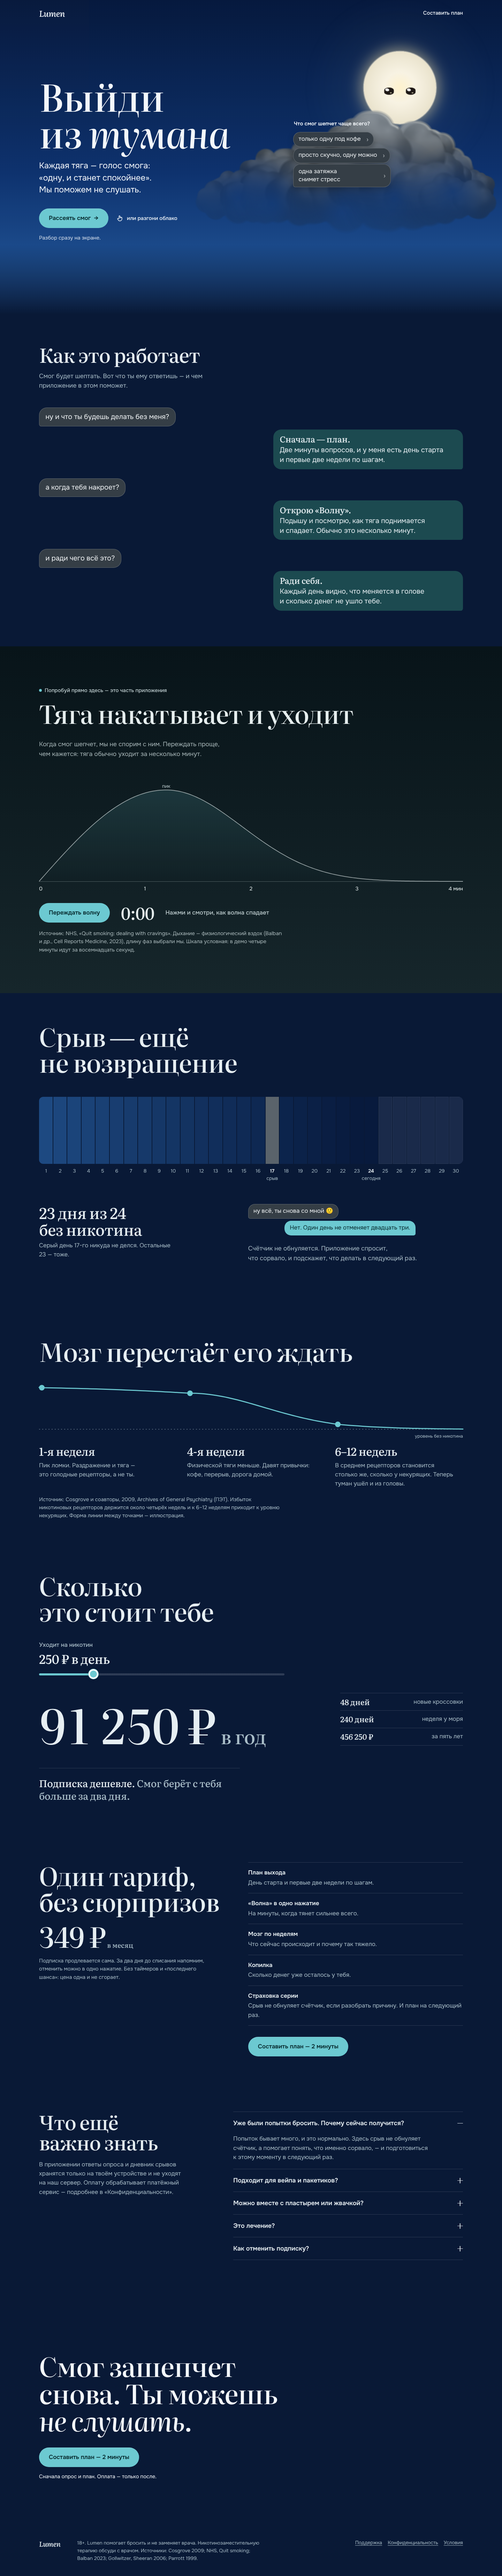
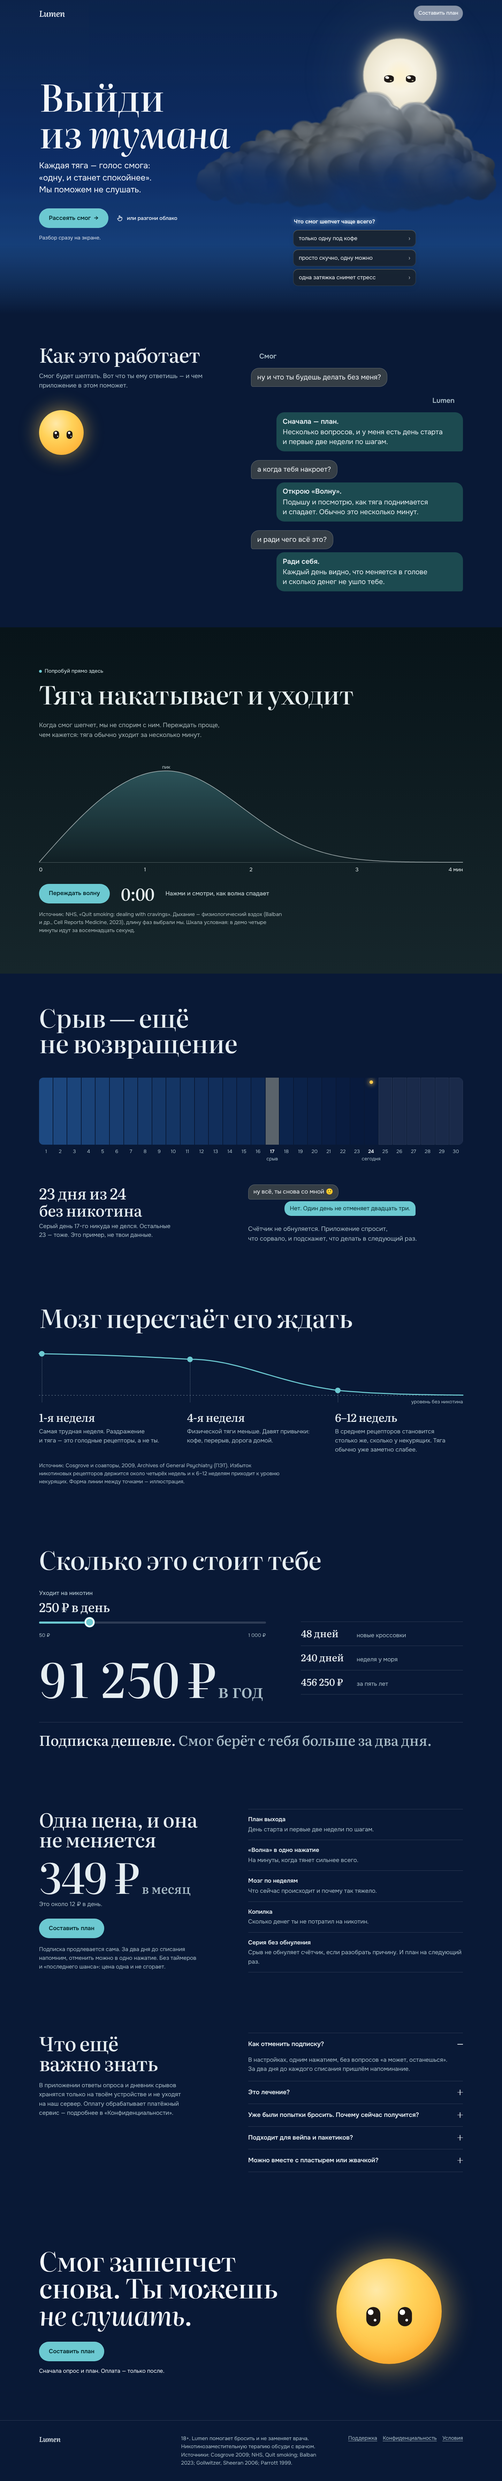
v9: desktop hero puts the trigger chips below the cloud
Fills the empty hero tail, removes chips-on-cloud contrast problems,
solid chip fill, theme-aware header pill.

Claude-Session: https://claude.ai/code/session_01CKqe4UyzFgn5AFv8yWGEaJ

diff --git a/design/directions/v9.html b/design/directions/v9.html
@@ -114,7 +114,7 @@ main,footer{position:relative;z-index:1}
 
 header.top{position:absolute;inset:0 0 auto 0;z-index:3;padding-top:env(safe-area-inset-top)}
 header.top .wrap{display:flex;justify-content:space-between;align-items:center;height:4.75rem}
-.login{background:rgba(255,255,255,.5);box-shadow:inset 0 0 0 1px rgba(6,36,63,.15);display:inline-flex;align-items:center;min-height:2.75rem;padding-inline:.85rem;margin-right:0;color:var(--ink);font-weight:500;font-size:.9375rem;text-decoration:none;border-radius:999px;transition:background-color .15s ease}
+.login{background:color-mix(in srgb,var(--ink) 12%,transparent);box-shadow:inset 0 0 0 1px color-mix(in srgb,var(--ink) 25%,transparent);display:inline-flex;align-items:center;min-height:2.75rem;padding-inline:.85rem;margin-right:0;color:var(--ink);font-weight:500;font-size:.9375rem;text-decoration:none;border-radius:999px;transition:background-color .15s ease}
 
 .hero-inner{position:relative;z-index:2;min-height:100svh;display:grid;grid-template-columns:minmax(0,7fr) minmax(0,5fr);
   column-gap:3rem;padding-block:calc(6rem + env(safe-area-inset-top)) clamp(3.5rem,9vh,6rem);align-items:center;pointer-events:none}
@@ -146,7 +146,7 @@ header.top .wrap{display:flex;justify-content:space-between;align-items:center;h
 .hint svg{width:1.4rem;height:1.4rem;flex:none}
 
 /* Переписка с Ником */
-.stage{grid-column:2;grid-row:1;margin-top:-4vh}
+.stage{grid-column:2;grid-row:1;margin-top:0;align-self:end}
 .thread{width:100%;max-width:22rem}
 .who{display:flex;align-items:center;gap:.6rem;margin:0 0 .7rem .1rem;color:var(--ink);opacity:0;transition:opacity .2s var(--ease-out)}
 .who.in{opacity:1}
@@ -437,7 +437,7 @@ dialog.plan.in::backdrop{background:rgba(6,36,63,.28)}
   .who{justify-content:center;margin:0 0 .5rem}
   .ask{font-size:.8125rem;font-weight:500;opacity:.85}
   .bubbles{align-items:stretch;gap:.5rem}
-  .b{max-width:none;width:100%;min-height:3rem;border-radius:.875rem;padding:0 1rem;font-size:1rem;background:rgba(15,23,42,.62);-webkit-backdrop-filter:blur(14px);backdrop-filter:blur(14px);box-shadow:inset 0 0 0 1px rgba(255,255,255,.14),inset 0 1px 0 rgba(255,201,77,.3)}
+  .b{max-width:none;width:100%;min-height:3rem;border-radius:.875rem;padding:0 1rem;font-size:1rem;background:rgba(24,34,46,.9);-webkit-backdrop-filter:blur(14px);backdrop-filter:blur(14px);box-shadow:0 6px 18px -8px rgba(6,36,63,.45),inset 0 0 0 1px rgba(255,255,255,.14),inset 0 1px 0 rgba(255,201,77,.3)}
   .b.last{border-bottom-left-radius:.875rem}
   .actions{grid-column:1;grid-row:4;margin-top:1rem}
   .actions > div{flex-direction:column;align-items:stretch;gap:.5rem}
@@ -492,7 +492,7 @@ dialog.plan.in::backdrop{background:rgba(6,36,63,.28)}
 @keyframes flash{0%{opacity:.25;transform:scale(.85)}35%{opacity:1;transform:scale(1.25)}100%{opacity:1;transform:none}}
 html:has(dialog.plan[open]) .hero-inner .copy,html:has(dialog.plan[open]) .hero-inner .copy > *{opacity:0}
 .hero-inner .copy,.hero-inner .copy > *{transition:opacity .2s var(--ease-out)}
-.b{border:0;font-family:inherit;text-align:left;cursor:pointer;display:flex;align-items:center;gap:.6rem;max-width:none;width:100%;min-height:3rem;border-radius:.875rem;padding:0 1rem;font-size:1rem;white-space:nowrap;background:rgba(15,23,42,.62);-webkit-backdrop-filter:blur(14px);backdrop-filter:blur(14px);box-shadow:inset 0 0 0 1px rgba(255,255,255,.14),inset 0 1px 0 rgba(255,201,77,.3)}
+.b{border:0;font-family:inherit;text-align:left;cursor:pointer;display:flex;align-items:center;gap:.6rem;max-width:none;width:100%;min-height:3rem;border-radius:.875rem;padding:0 1rem;font-size:1rem;white-space:nowrap;background:rgba(24,34,46,.9);-webkit-backdrop-filter:blur(14px);backdrop-filter:blur(14px);box-shadow:0 6px 18px -8px rgba(6,36,63,.45),inset 0 0 0 1px rgba(255,255,255,.14),inset 0 1px 0 rgba(255,201,77,.3)}
 .b.last{border-bottom-left-radius:.875rem}
 .b::after{content:"›";margin-left:auto;padding-left:.4rem;opacity:.6;font-size:1.25em;line-height:1}
 @media (hover:hover) and (pointer:fine){.b.in:hover{filter:brightness(1.12)}}
@@ -825,7 +825,7 @@ function makeSprites(pal){
 function layout(){
   if (mobile()) { const st = document.getElementById('stage').getBoundingClientRect(), H0 = hero.getBoundingClientRect().height, top = st.top - hero.getBoundingClientRect().top;
     return { cx: .5, cy: (top + 128) / H0, w: 1.15, h: 190 / H0, peak: .5 }; }
-  return { cx: .69, cy: .44, w: .52, h: .46, peak: .66 };
+  return { cx: .69, cy: .38, w: .52, h: .46, peak: .66 };
 }
 function build(){
   rect = hero.getBoundingClientRect();
